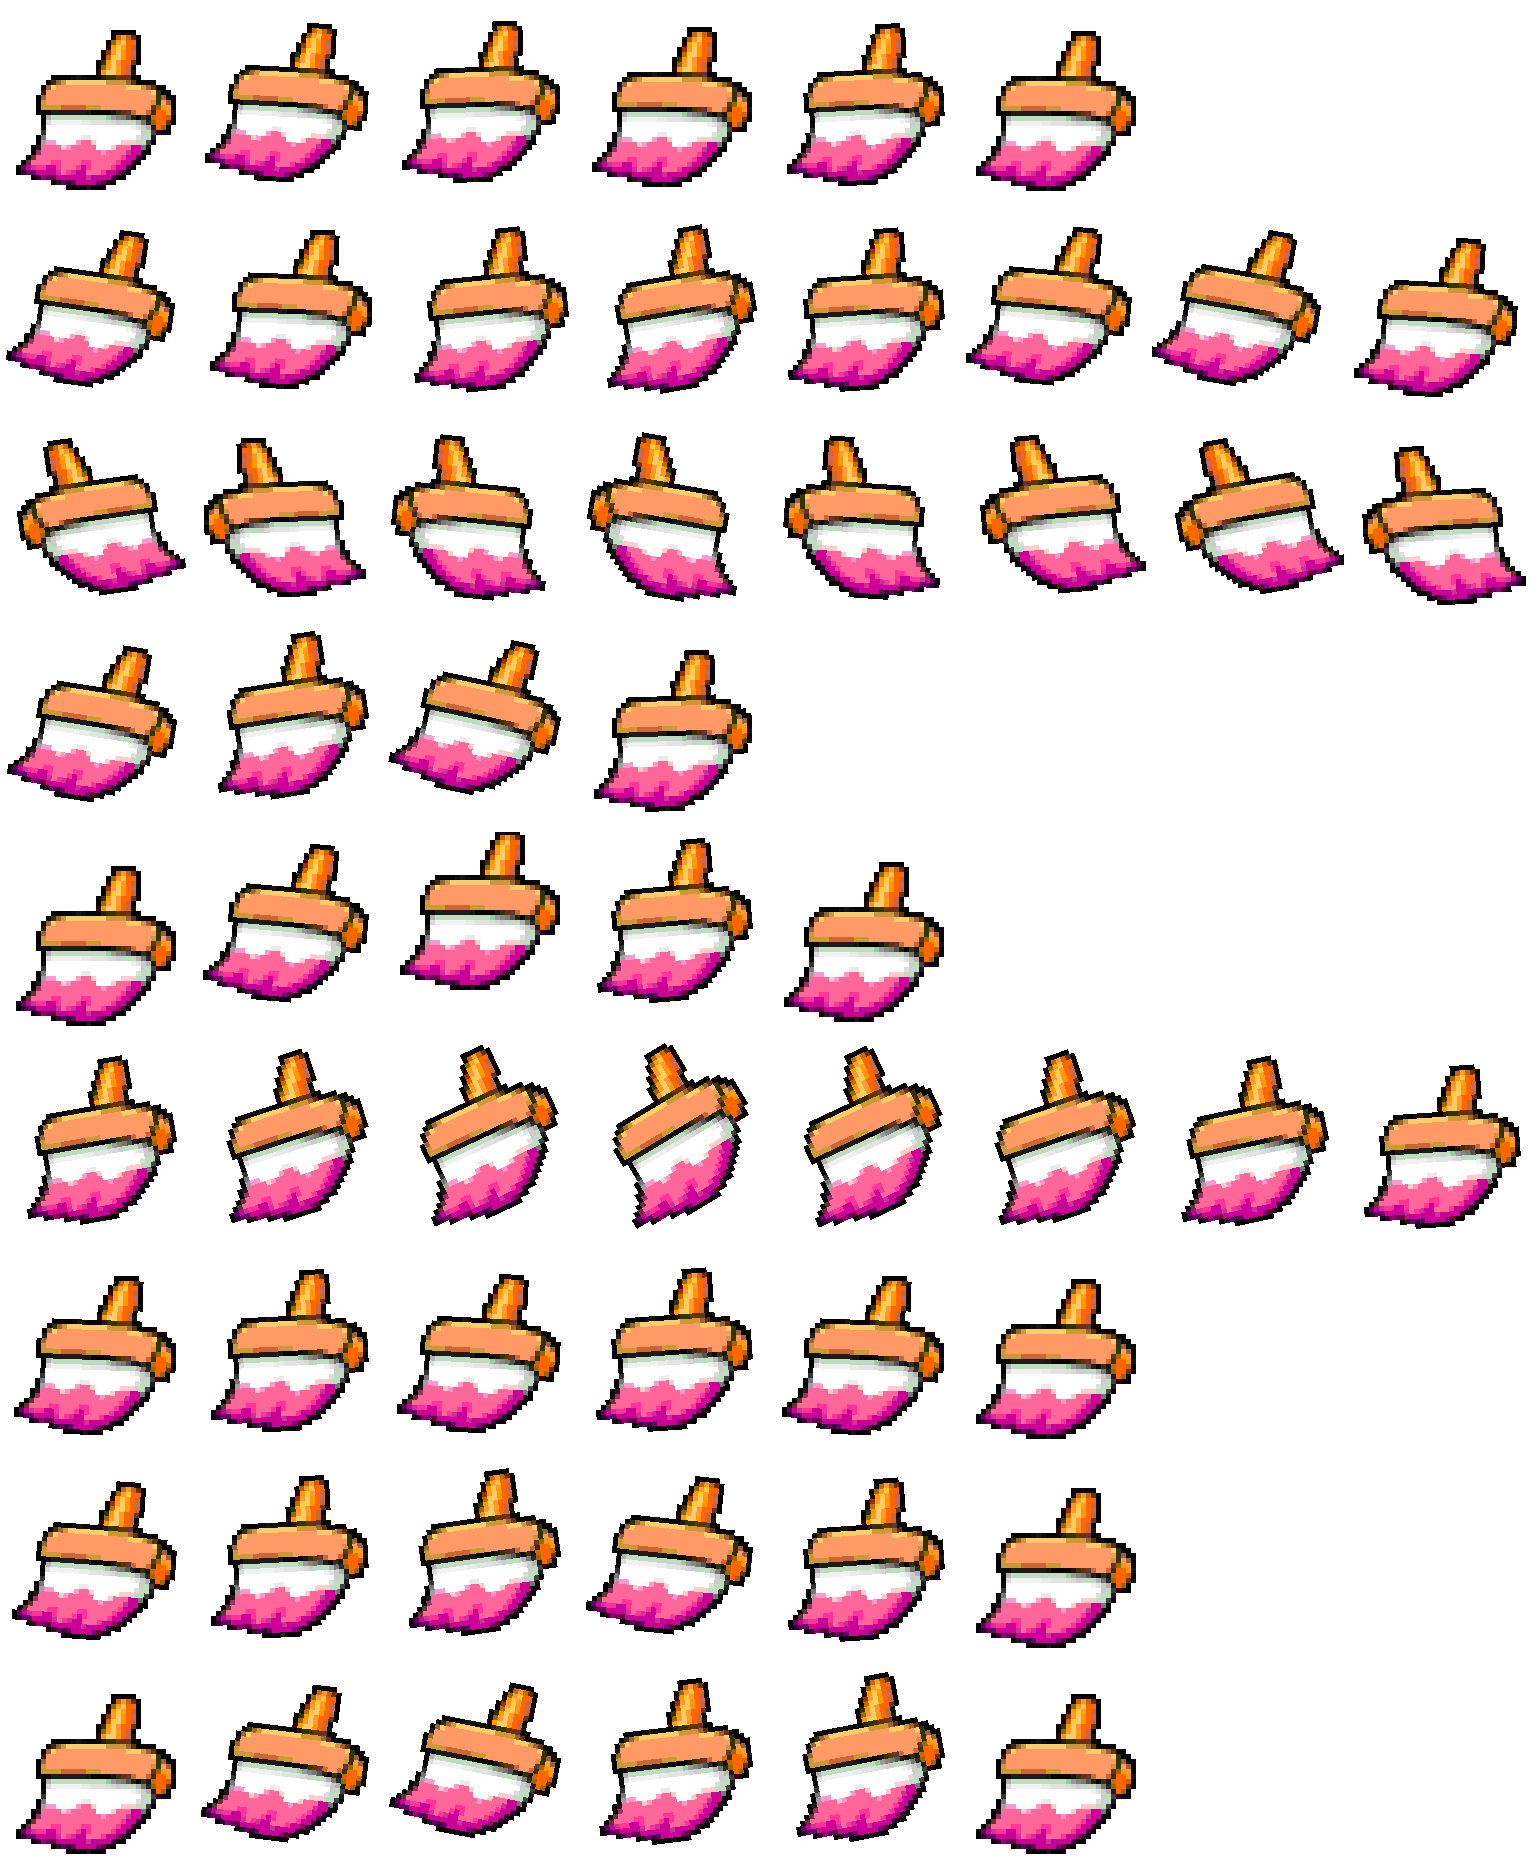
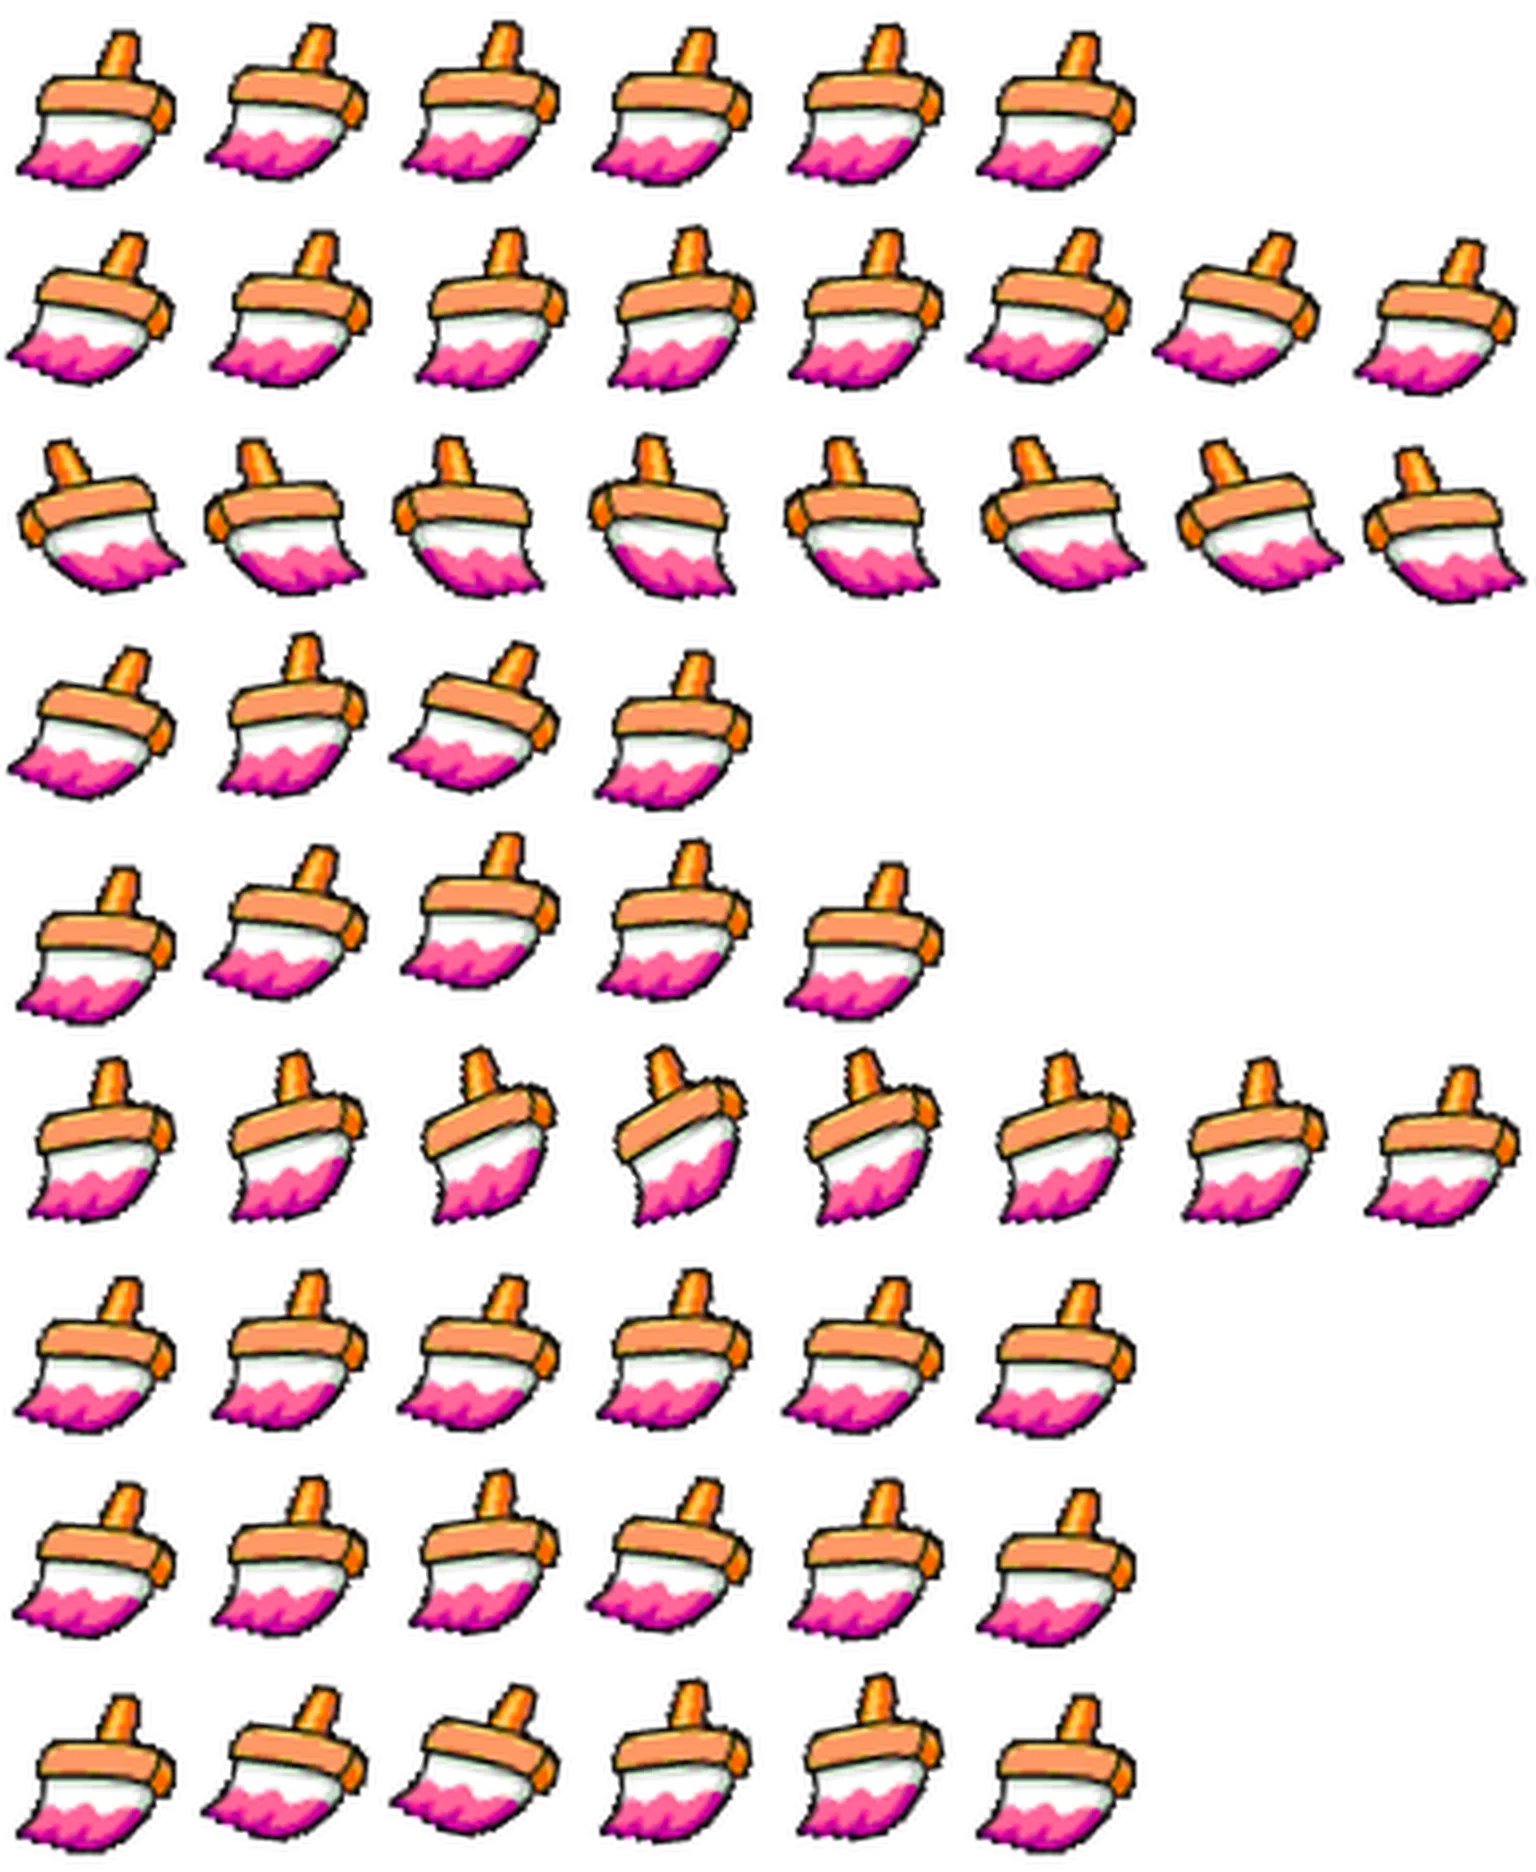
Add missile-shower powerup, smooth the brush asset, fix idle facing
- Missile Shower: grabbing it queues a stagger of paint craters at random spots (server schedules impacts, paints discs, broadcasts 'impact'; client stamps the crater + a shockwave boom). New orange rocket gem icon.

- Brush asset de-pixelated: resampled the 32x32-origin sheet (alpha-correct downscale to true resolution, then smooth LANCZOS upscale) so hard pixel blocks become smooth edges. Per-player paint tinting still recolors cleanly (verified no fringe).

- Idle facing fixed: the idle art faces right, so IDLE_BASE_FACE flipped to 1 — a stopped brush now keeps facing the last horizontal direction.

Changed region(s): [[0.0, 0.0, 1.0, 0.9915]]

diff --git a/server.js b/server.js
@@ -50,9 +50,14 @@ const BOOST_MULT = 1.8;          // multiplier on MAX_SPEED and ACCEL while boos
 const FREEZE_MS = 1_800;         // how long rivals are frozen in place
 const INKJAM_MS = 3_500;         // how long rivals can't lay paint
 
-// The original Battle Painters items: speed up your brush, stop other players,
-// prevent others from distributing paint.
-const POWERUP_TYPES = ['speed', 'freeze', 'inkjam'];
+// Missile shower: grabbing it rains craters of YOUR paint at random spots.
+const MISSILE_COUNT = 9;
+const MISSILE_DELAY_MS = 250;    // delay before the first impact
+const MISSILE_INTERVAL_MS = 110; // stagger between impacts
+const CRATER_R = 36;             // crater paint radius (px)
+
+// Battle Painters items (speed / freeze / inkjam) + a missile-shower extra.
+const POWERUP_TYPES = ['speed', 'freeze', 'inkjam', 'missile'];
 
 // 8 distinct, high-contrast brush colors indexed by slot.
 const PALETTE = [
@@ -97,6 +102,7 @@ let lastWinnerSlot = -1;
 let powerups = [];         // [{id, x, y, type}]
 let nextPowerupId = 1;
 let lastSpawnAt = 0;
+let pendingImpacts = [];   // queued missile-shower craters: [{at, x, y, slot}]
 
 class Player {
   constructor(id, ws) {
@@ -178,11 +184,11 @@ function paintCell(cx, cy, slot) {
   changed.add(idx);
 }
 
-// Stamp a filled disc of cells centered at world coords (wx, wy).
-function stampDisc(wx, wy, slot) {
+// Paint a filled disc of cells (radius rPx) centered at world coords (wx, wy).
+function fillDisc(wx, wy, rPx, slot) {
   const ccx = wx / CELL;
   const ccy = wy / CELL;
-  const rc = BRUSH_R / CELL;
+  const rc = rPx / CELL;
   const r2 = rc * rc;
   const minX = Math.floor(ccx - rc);
   const maxX = Math.ceil(ccx + rc);
@@ -195,6 +201,11 @@ function stampDisc(wx, wy, slot) {
       if (dx * dx + dy * dy <= r2) paintCell(cx, cy, slot);
     }
   }
+}
+
+// The brush stamps a disc of radius BRUSH_R as it moves.
+function stampDisc(wx, wy, slot) {
+  fillDisc(wx, wy, BRUSH_R, slot);
 }
 
 // Stamp along the segment prev->cur so fast movement leaves no gaps.
@@ -276,7 +287,32 @@ function applyPowerup(p, type, t) {
       if (type === 'freeze') o.frozenUntil = t + FREEZE_MS;
       else o.noPaintUntil = t + INKJAM_MS;
     }
+  } else if (type === 'missile') {
+    const m = 60;
+    for (let i = 0; i < MISSILE_COUNT; i++) {
+      pendingImpacts.push({
+        at: t + MISSILE_DELAY_MS + i * MISSILE_INTERVAL_MS,
+        x: Math.round(m + Math.random() * (WORLD_W - 2 * m)),
+        y: Math.round(m + Math.random() * (WORLD_H - 2 * m)),
+        slot: p.slot,
+      });
+    }
   }
+}
+
+// Land any missile craters whose time has come (paints + broadcasts each impact).
+function processImpacts(t) {
+  if (!pendingImpacts.length) return;
+  const remain = [];
+  for (const im of pendingImpacts) {
+    if (t >= im.at) {
+      fillDisc(im.x, im.y, CRATER_R, im.slot);
+      broadcast({ t: 'impact', x: im.x, y: im.y, slot: im.slot, r: CRATER_R });
+    } else {
+      remain.push(im);
+    }
+  }
+  pendingImpacts = remain;
 }
 
 function updatePowerups(t) {
@@ -308,6 +344,7 @@ function startRound() {
   scores.fill(0);
   changed.clear();
   powerups = [];
+  pendingImpacts = [];
   lastSpawnAt = now();
   spawnWaitingSpectators();
   for (const p of players.values()) {
@@ -359,6 +396,7 @@ function tick() {
       if (p.slot >= 0) stepPlayer(p, dt);
     }
     updatePowerups(t);
+    processImpacts(t);
     if (t >= phaseEndsAt) {
       endRound();
     } else {

diff --git a/public/client.js b/public/client.js
@@ -31,7 +31,7 @@ const PET = {
   },
 };
 const PET_DRAW_H = 62;         // on-screen cell height (px) — smaller brush
-const IDLE_BASE_FACE = -1;     // which way the idle/neutral art faces (-1 = left); mirror otherwise
+const IDLE_BASE_FACE = 1;      // which way the idle/neutral art faces (1 = right); mirror otherwise
 const PET_ANCHOR_Y = 0.62;     // fraction of the cell aligned to the brush's floor point
 const TRAIL_W = 26;            // smooth paint-ribbon width (px)
 const petSheet = new Image();
@@ -82,6 +82,7 @@ const me = { x: 0, y: 0, vx: 0, vy: 0, has: false, face: 1, speed: 0, boost: fal
 
 // Active powerups on the board, and a monotonic clock used for animation/emotes.
 let powerups = [];
+let impacts = [];          // missile-shower craters being animated: [{x,y,r,slot,start}]
 let nowMs = 0;
 
 // Paint layer at grid resolution (1px per cell), scaled up on draw.
@@ -123,6 +124,7 @@ function handle(msg) {
       timeLeftMs = msg.timeLeftMs;
       scores = msg.scores;
       powerups = msg.powerups || [];
+      impacts = [];
       applySnapshot(msg.cells);
       applyPlayers(msg.players, true);
       hide(els.results);
@@ -144,6 +146,15 @@ function handle(msg) {
       // Pickup celebration (wiggle + sparkles) for whoever grabbed a powerup.
       const target = msg.id === myId ? me : remote.get(msg.id);
       if (target) target.emoteUntil = nowMs + EMOTE_MS;
+      break;
+    }
+    case 'impact': {
+      // Missile crater: stamp a solid disc onto the paint layer + animate a boom.
+      if (paintCtx && palette[msg.slot]) {
+        paintCtx.fillStyle = palette[msg.slot];
+        paintCtx.beginPath(); paintCtx.arc(msg.x, msg.y, msg.r, 0, Math.PI * 2); paintCtx.fill();
+      }
+      impacts.push({ x: msg.x, y: msg.y, r: msg.r, slot: msg.slot, start: nowMs });
       break;
     }
     case 'roundover': {
@@ -506,9 +517,10 @@ function drawBrushSprite(x, y, slot, face, speed, isMe, boost, frozen, noPaint, 
 
 // Supercell-style powerup badges: bold rounded gem, gradient, thick outline, sheen.
 const POWERUP_STYLE = {
-  speed:  { a: '#ffe48a', b: '#ff9d2f', ring: '#6e3d00', sym: 'bolt' },
-  freeze: { a: '#d6f3ff', b: '#37a8ff', ring: '#0f4a78', sym: 'snow' },
-  inkjam: { a: '#ffc6e4', b: '#ff3da5', ring: '#7a1147', sym: 'noink' },
+  speed:   { a: '#ffe48a', b: '#ff9d2f', ring: '#6e3d00', sym: 'bolt' },
+  freeze:  { a: '#d6f3ff', b: '#37a8ff', ring: '#0f4a78', sym: 'snow' },
+  inkjam:  { a: '#ffc6e4', b: '#ff3da5', ring: '#7a1147', sym: 'noink' },
+  missile: { a: '#ffd0b0', b: '#ff5a3c', ring: '#7a2410', sym: 'missile' },
 };
 
 function roundRect(x, y, w, h, r) {
@@ -549,6 +561,21 @@ function drawSymbol(sym, cx, cy, r) {
     ctx.closePath(); ctx.lineWidth = 2.4; ctx.fill(); ctx.stroke();
     ctx.strokeStyle = '#e23b3b'; ctx.lineWidth = 3.4;
     ctx.beginPath(); ctx.moveTo(-r, -r); ctx.lineTo(r, r); ctx.stroke();
+  } else if (sym === 'missile') {
+    ctx.lineWidth = 2.2;
+    ctx.beginPath();                       // rocket body + nose
+    ctx.moveTo(0, -r);
+    ctx.lineTo(r * 0.42, -r * 0.2);
+    ctx.lineTo(r * 0.42, r * 0.5);
+    ctx.lineTo(-r * 0.42, r * 0.5);
+    ctx.lineTo(-r * 0.42, -r * 0.2);
+    ctx.closePath(); ctx.fill(); ctx.stroke();
+    ctx.beginPath();                       // fins
+    ctx.moveTo(r * 0.42, r * 0.15); ctx.lineTo(r * 0.78, r * 0.58); ctx.lineTo(r * 0.42, r * 0.5);
+    ctx.moveTo(-r * 0.42, r * 0.15); ctx.lineTo(-r * 0.78, r * 0.58); ctx.lineTo(-r * 0.42, r * 0.5);
+    ctx.closePath(); ctx.fill(); ctx.stroke();
+    ctx.fillStyle = '#7ad0ff';             // window
+    ctx.beginPath(); ctx.arc(0, -r * 0.08, r * 0.2, 0, Math.PI * 2); ctx.fill();
   }
   ctx.restore();
 }
@@ -584,6 +611,20 @@ function render() {
   if (paintLayer) ctx.drawImage(paintLayer, 0, 0);  // 1:1, world-resolution
 
   for (const pu of powerups) drawPowerup(pu);
+
+  // Missile-impact shockwaves (expanding white ring) over the fresh craters.
+  if (impacts.length) {
+    for (const im of impacts) {
+      const age = (nowMs - im.start) / 450;
+      if (age >= 1) continue;
+      ctx.save();
+      ctx.globalAlpha = (1 - age) * 0.85;
+      ctx.strokeStyle = '#fff'; ctx.lineWidth = 3;
+      ctx.beginPath(); ctx.arc(im.x, im.y, im.r * (0.55 + age * 1.2), 0, Math.PI * 2); ctx.stroke();
+      ctx.restore();
+    }
+    impacts = impacts.filter((im) => nowMs - im.start < 450);
+  }
 
   // Collect actors and depth-sort by y (lower draws on top).
   const actors = [];